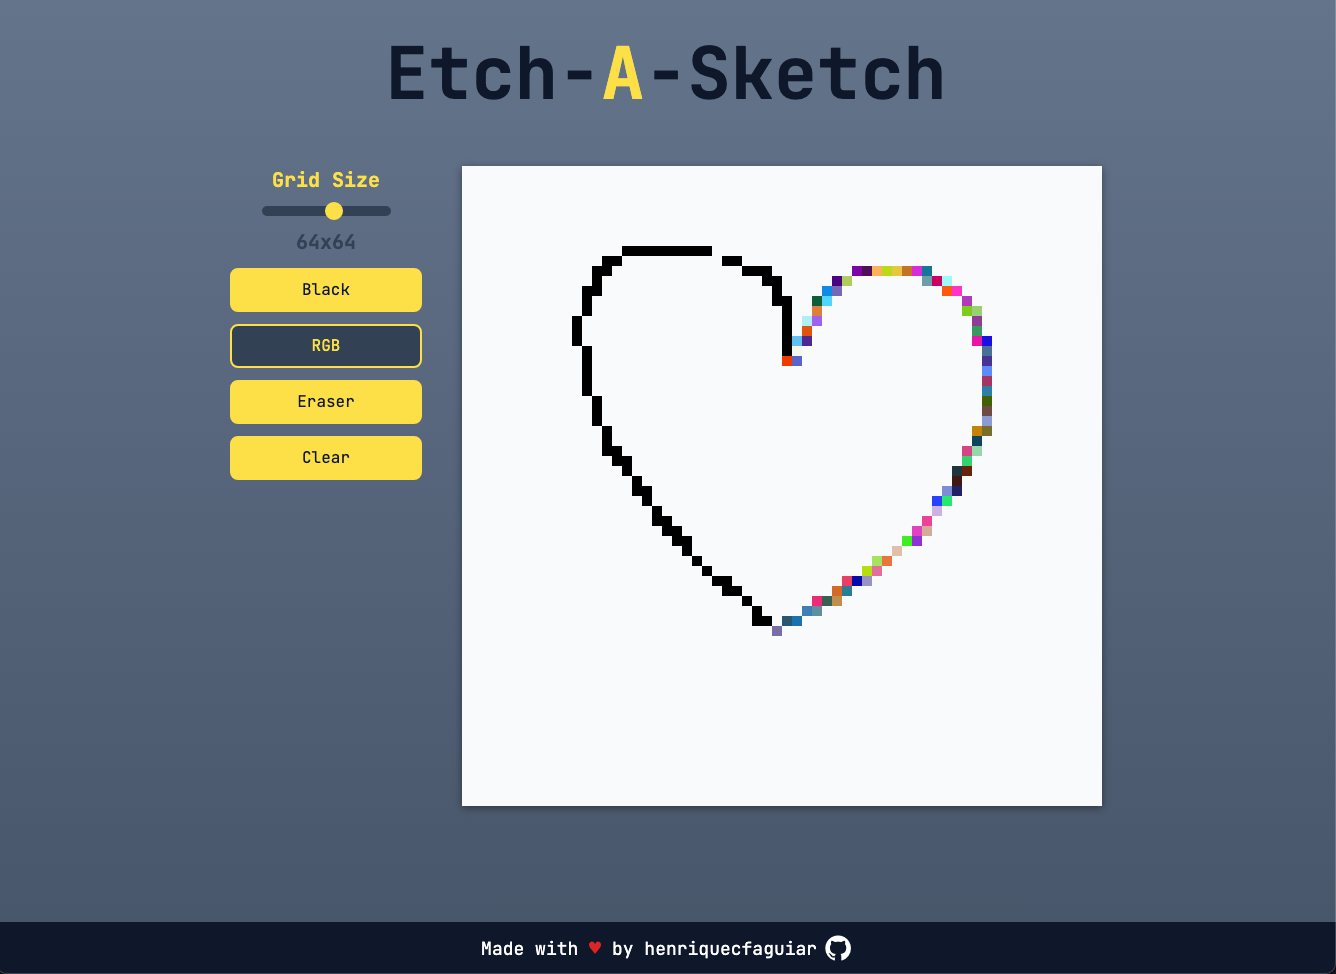
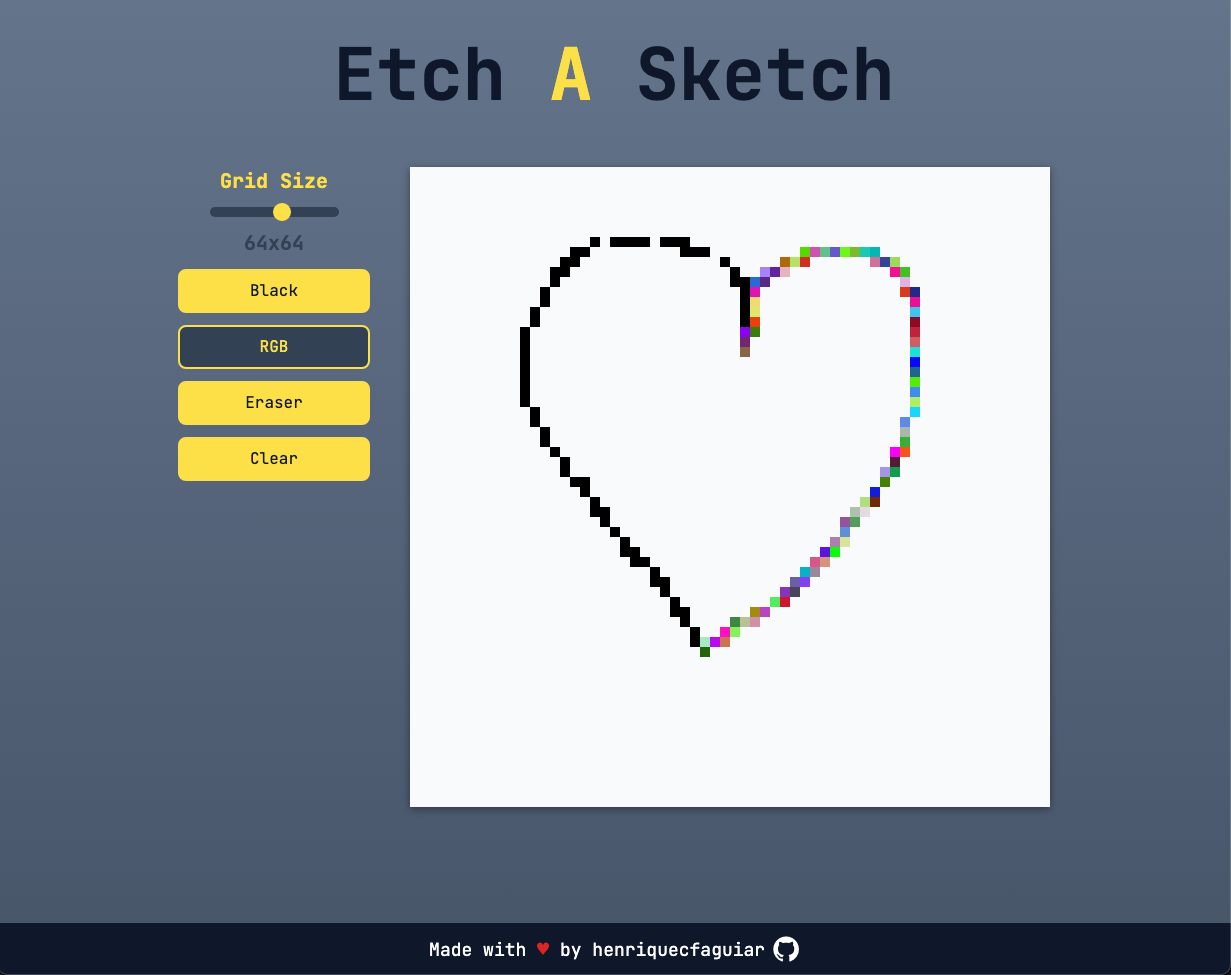
Update title and project screenshot

diff --git a/dist/output.css b/dist/output.css
@@ -655,6 +655,11 @@ video {
   color: rgb(220 38 38 / var(--tw-text-opacity));
 }
 
+.text-slate-700 {
+  --tw-text-opacity: 1;
+  color: rgb(51 65 85 / var(--tw-text-opacity));
+}
+
 .text-slate-900 {
   --tw-text-opacity: 1;
   color: rgb(15 23 42 / var(--tw-text-opacity));
@@ -668,16 +673,6 @@ video {
 .text-yellow-300 {
   --tw-text-opacity: 1;
   color: rgb(253 224 71 / var(--tw-text-opacity));
-}
-
-.text-slate-700 {
-  --tw-text-opacity: 1;
-  color: rgb(51 65 85 / var(--tw-text-opacity));
-}
-
-.text-slate-800 {
-  --tw-text-opacity: 1;
-  color: rgb(30 41 59 / var(--tw-text-opacity));
 }
 
 .shadow-grid {

diff --git a/index.html b/index.html
@@ -21,7 +21,7 @@
     />
     <link rel="stylesheet" href="./dist/output.css" />
     <script type="text/javascript" src="./script.js" defer></script>
-    <title>Etch-A-Sketch</title>
+    <title>Etch A Sketch</title>
   </head>
 
   <body>
@@ -33,7 +33,7 @@
         <h1
           class="my-4 text-center text-5xl font-bold text-slate-900 sm:my-6 sm:text-6xl md:my-10 md:text-7xl"
         >
-          Etch-<span class="text-yellow-300">A</span>-Sketch
+          Etch <span class="text-yellow-300">A</span> Sketch
         </h1>
       </header>
       <main
